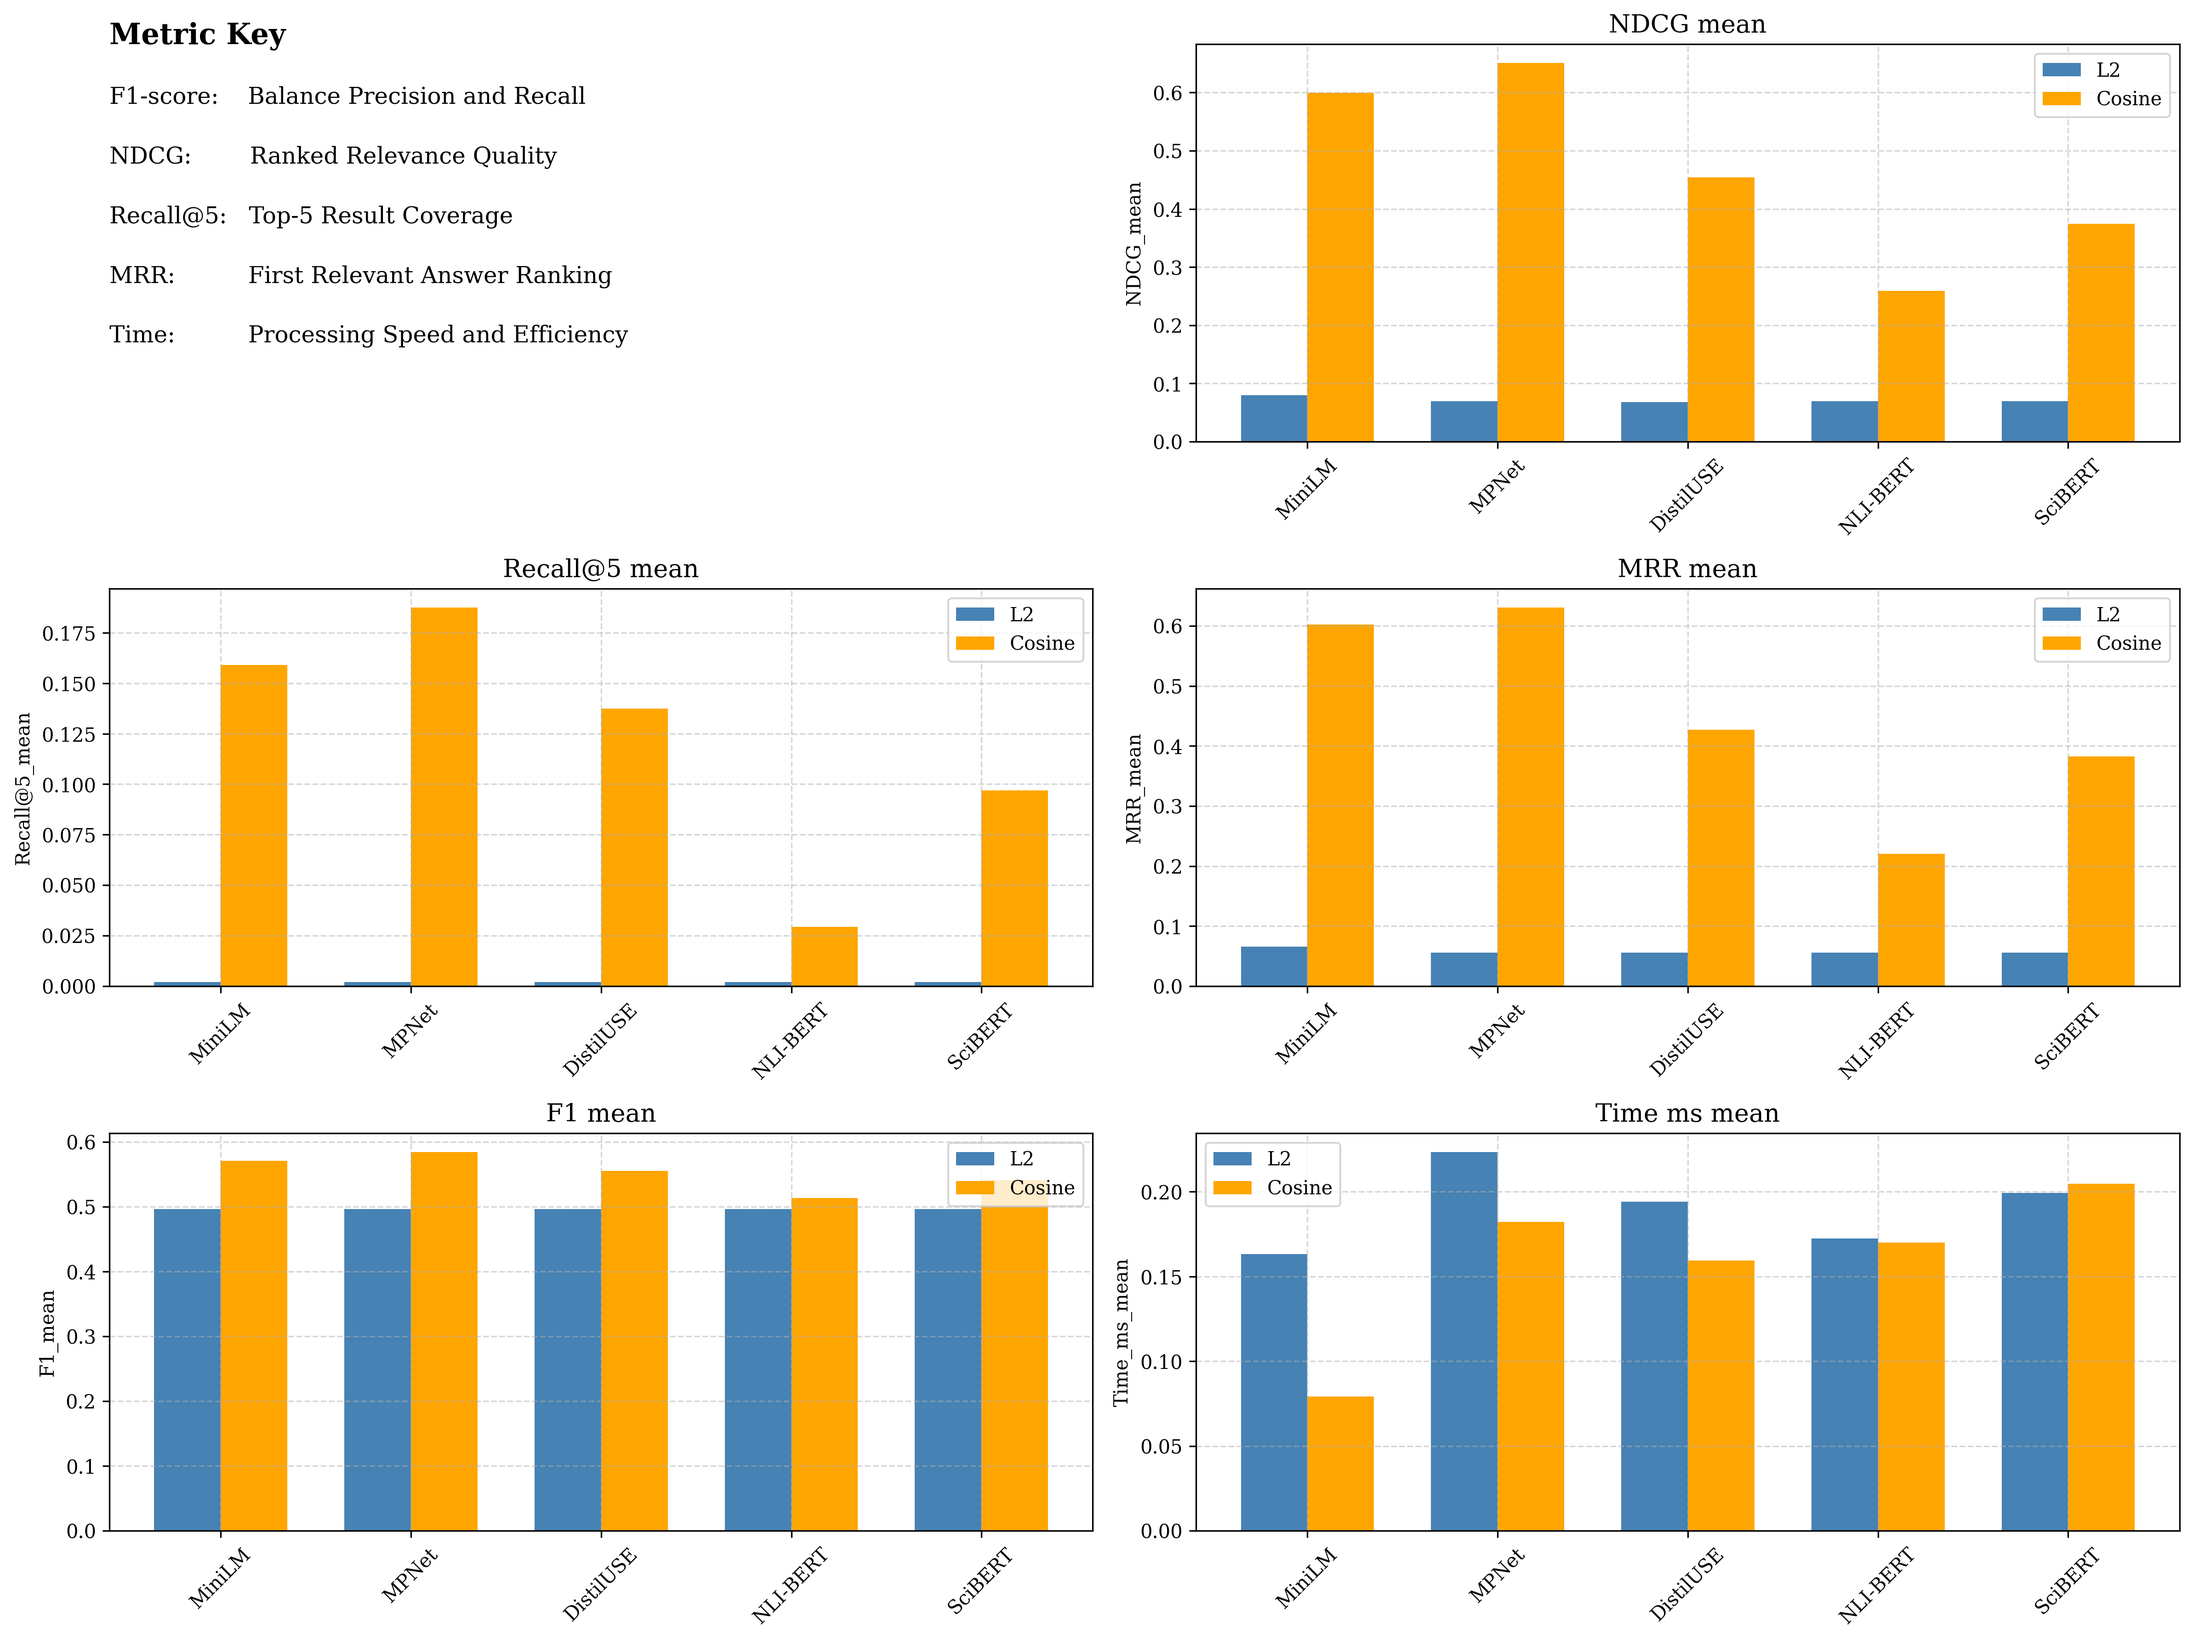
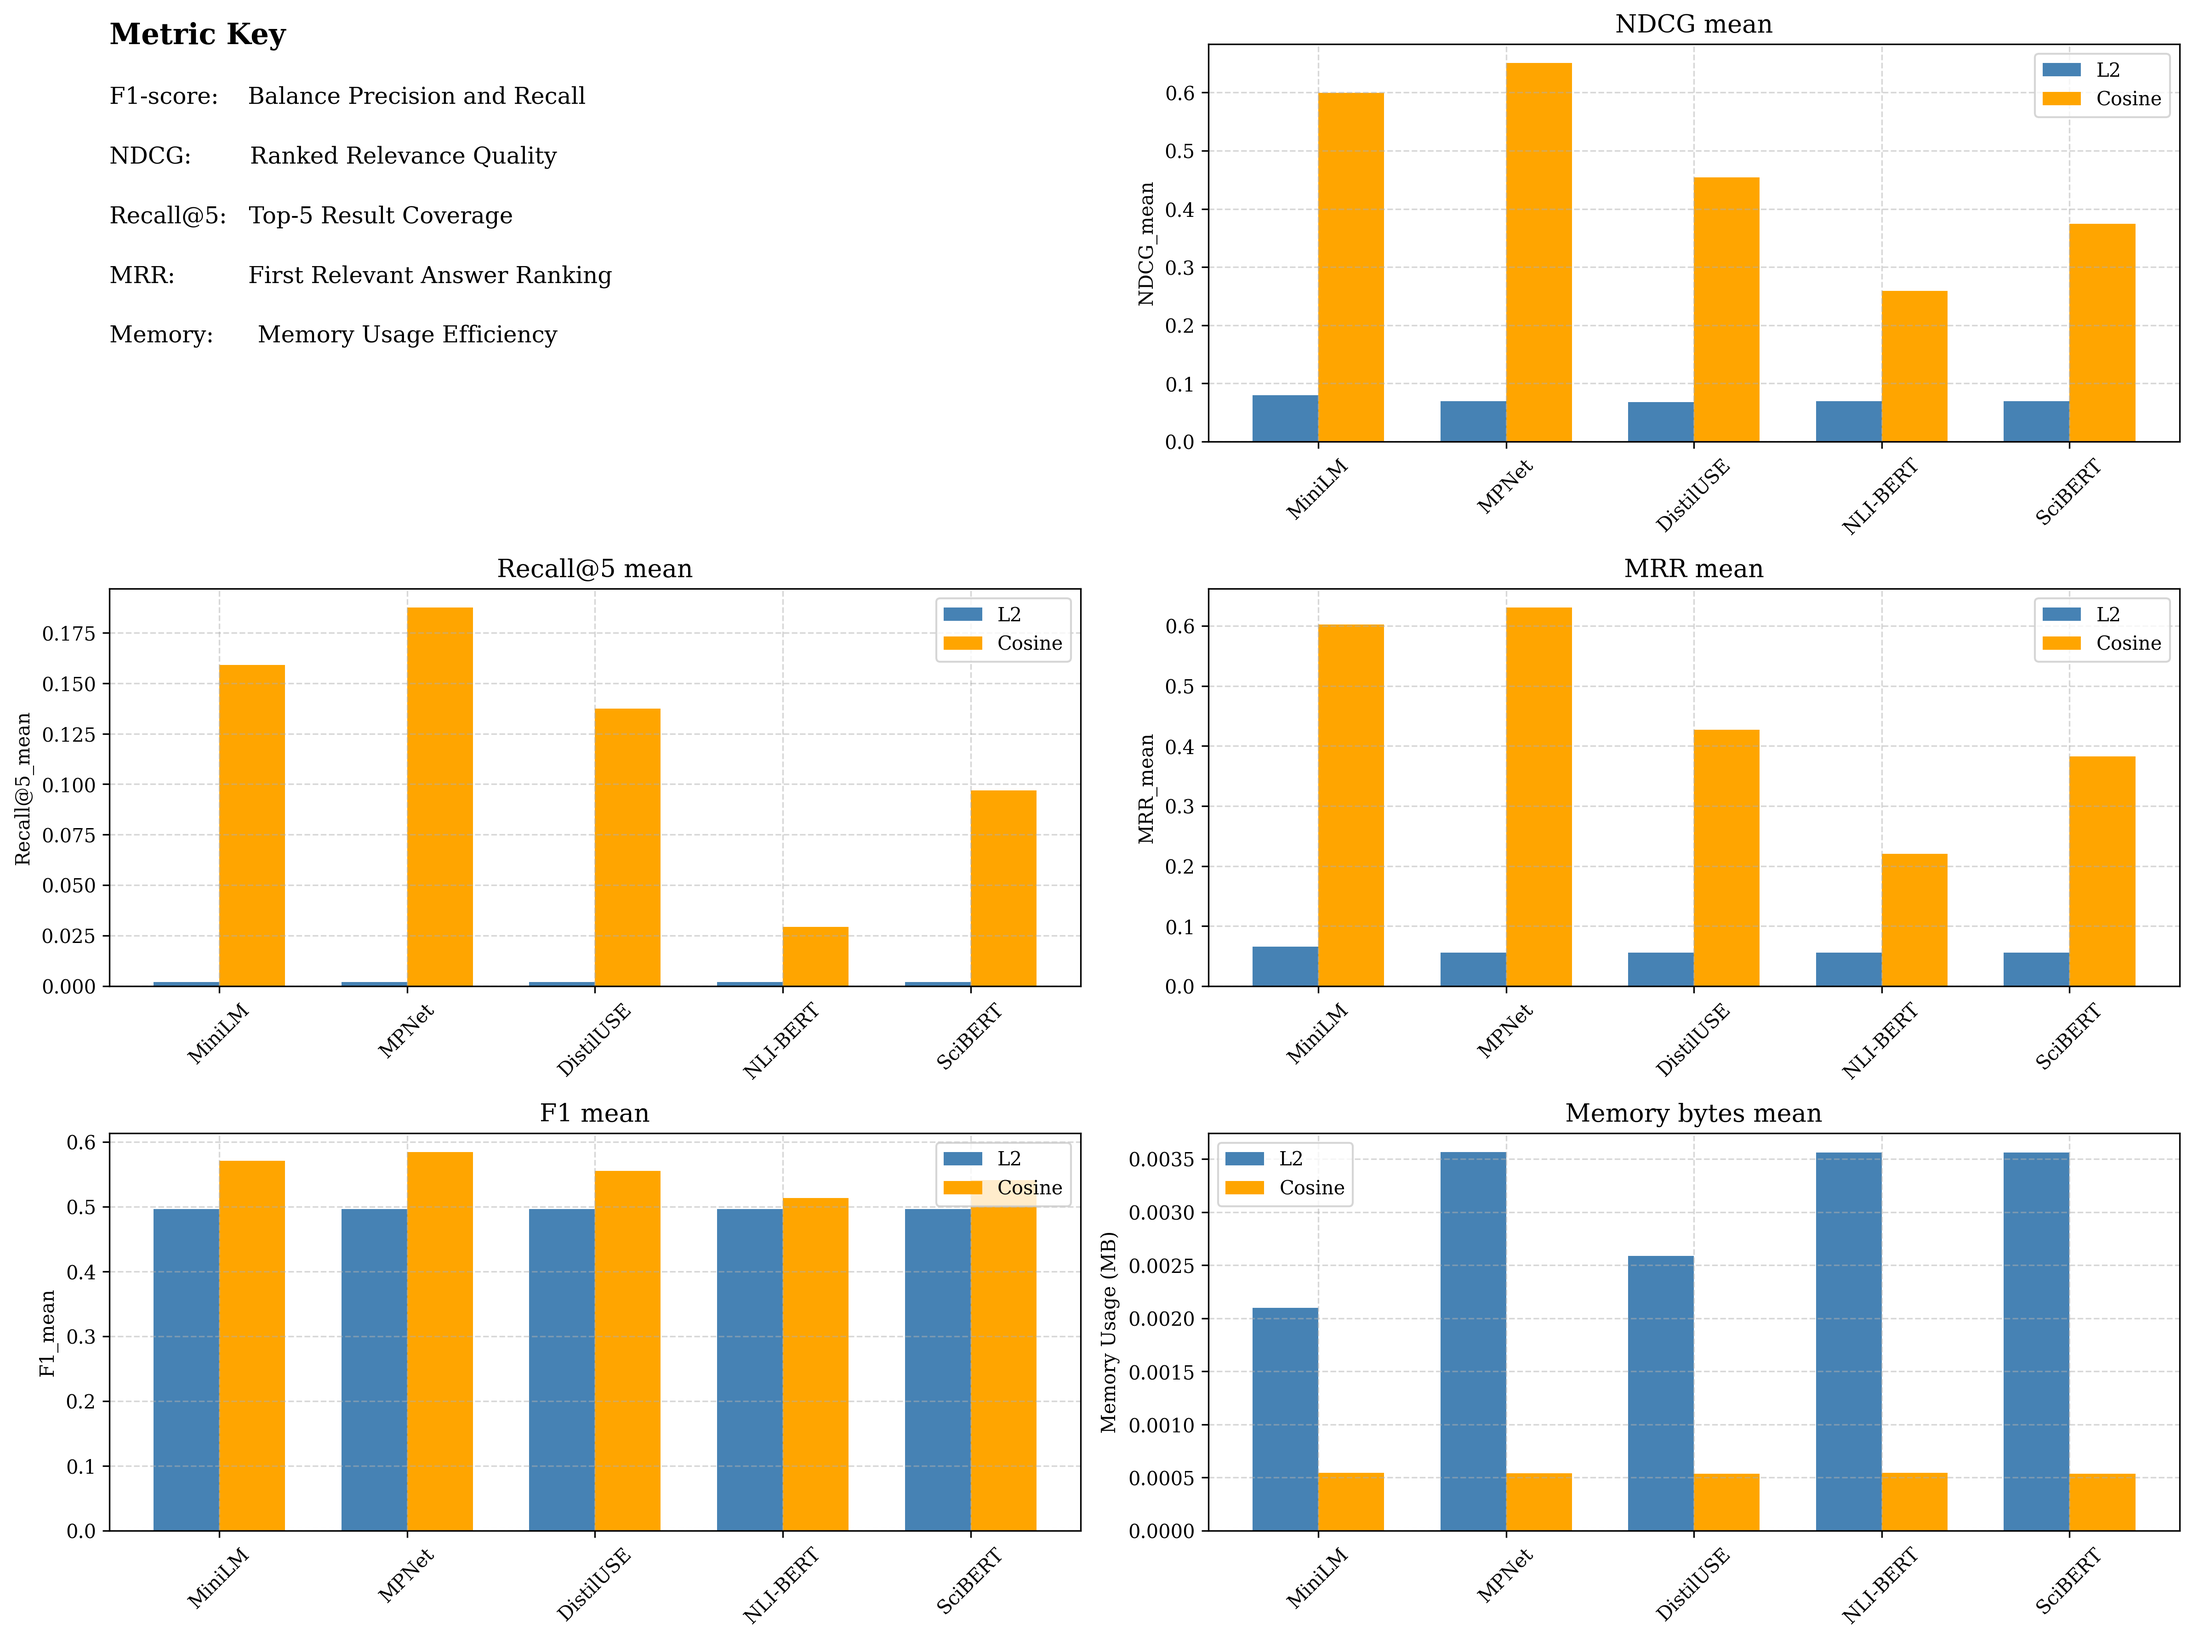
added memory usage

diff --git a/src/testing/add_langchain/paired_t.py b/src/testing/add_langchain/paired_t.py
@@ -20,6 +20,7 @@ f1_diff = merged_df["F1_langchain"] - merged_df["F1_baseline"]
 ndcg_diff = merged_df["NDCG_langchain"] - merged_df["NDCG_baseline"]
 mrr_diff = merged_df["MRR_langchain"] - merged_df["MRR_baseline"]
 r5_diff = merged_df["Recall@5_langchain"] - merged_df["Recall@5_baseline"]
+mem_diff = merged_df["Memory_bytes_langchain"] - merged_df["Memory_bytes_baseline"]
 
 # Shapiro-Wilk test for normality on differences - condition check for paired t-test
 print("Shapiro-Wilk Test for Normality of Paired Differences:")
@@ -27,11 +28,13 @@ f1_shapiro = shapiro(f1_diff).pvalue
 ndcg_shapiro = shapiro(ndcg_diff).pvalue
 mrr_shapiro = shapiro(mrr_diff).pvalue
 r5_shapiro = shapiro(r5_diff).pvalue
+mem_shapiro = shapiro(mem_diff).pvalue
 
 print(f"F1:       {f1_shapiro:.5f} {'(NORMAL)' if f1_shapiro > 0.05 else '(NON-NORMAL)'}")
 print(f"NDCG:     {ndcg_shapiro:.5f} {'(NORMAL)' if ndcg_shapiro > 0.05 else '(NON-NORMAL)'}")
 print(f"MRR:      {mrr_shapiro:.5f} {'(NORMAL)' if mrr_shapiro > 0.05 else '(NON-NORMAL)'}")
 print(f"Recall@5: {r5_shapiro:.5f} {'(NORMAL)' if r5_shapiro > 0.05 else '(NON-NORMAL)'}")
+print(f"Memory:   {mem_shapiro:.5f} {'(NORMAL)' if mem_shapiro > 0.05 else '(NON-NORMAL)'}")
 
 # Try log transformation for NDCG if not normal
 ndcg_transformed = None
@@ -108,6 +111,20 @@ significance = "SIGNIFICANT" if r5_p < 0.05 else "NOT SIGNIFICANT"
 print(f"Recall@5 ({test_type}): p = {r5_p:.5f} | {significance}")
 print(f"  Baseline: {merged_df['Recall@5_baseline'].mean():.4f} → LangChain: {merged_df['Recall@5_langchain'].mean():.4f}")
 
+# Memory Usage
+if mem_shapiro > 0.05:
+    mem_test = ttest_rel(merged_df["Memory_bytes_langchain"], merged_df["Memory_bytes_baseline"])
+    mem_p = mem_test.pvalue
+    test_type = "Paired t-test"
+else:
+    mem_test = wilcoxon(mem_diff)
+    mem_p = mem_test.pvalue
+    test_type = "Wilcoxon"
+
+significance = "SIGNIFICANT" if mem_p < 0.05 else "NOT SIGNIFICANT"
+print(f"Memory ({test_type}): p = {mem_p:.5f} | {significance}")
+print(f"  Baseline: {merged_df['Memory_bytes_baseline'].mean():.0f} → LangChain: {merged_df['Memory_bytes_langchain'].mean():.0f} bytes")
+
 print("\n" + "=" * 50)
 
 # CONCLUSIONS
@@ -119,6 +136,7 @@ if f1_p < 0.05: significant_improvements.append("F1")
 if ndcg_p < 0.05: significant_improvements.append("NDCG")
 if mrr_p < 0.05: significant_improvements.append("MRR")
 if r5_p < 0.05: significant_improvements.append("Recall@5")
+if mem_p < 0.05: significant_improvements.append("Memory Usage")
 
 if significant_improvements:
     print(f"LangChain shows statistically significant improvements in: {', '.join(significant_improvements)}")
@@ -127,35 +145,63 @@ else:
 
 print(f"📊 Effect sizes: F1 improvement = {((merged_df['F1_langchain'].mean() / merged_df['F1_baseline'].mean()) - 1) * 100:+.1f}%")
 
-# Showing Bar Plot
+# Showing Bar Plot with separate subplots for scores and memory
 sns.set_theme(style="whitegrid")
-metrics = ["F1", "NDCG", "MRR", "Recall@5"]
-baseline_means = [
+
+# Separate metrics into scores and memory
+score_metrics = ["F1", "NDCG", "MRR", "Recall@5"]
+baseline_scores = [
     merged_df["F1_baseline"].mean(),
     merged_df["NDCG_baseline"].mean(),
     merged_df["MRR_baseline"].mean(),
     merged_df["Recall@5_baseline"].mean()
 ]
-langchain_means = [
+langchain_scores = [
     merged_df["F1_langchain"].mean(),
     merged_df["NDCG_langchain"].mean(),
     merged_df["MRR_langchain"].mean(),
     merged_df["Recall@5_langchain"].mean()
 ]
 
-x = range(len(metrics))
+# Memory data separately
+baseline_memory = merged_df["Memory_bytes_baseline"].mean() / 1024 / 1024  # Convert to MB
+langchain_memory = merged_df["Memory_bytes_langchain"].mean() / 1024 / 1024  # Convert to MB
+
+# Create subplots
+fig, (ax1, ax2) = plt.subplots(1, 2, figsize=(12, 5))
+
+# Plot performance scores
+x1 = range(len(score_metrics))
 bar_width = 0.35
 
-fig, ax = plt.subplots(figsize=(8, 5))
-ax.bar(x, baseline_means, bar_width, label='Baseline MPNet', alpha=0.8)
-ax.bar([p + bar_width for p in x], langchain_means, bar_width, label='LangChain+MPNet', alpha=0.8)
+ax1.bar(x1, baseline_scores, bar_width, label='Baseline MPNet', alpha=0.8)
+ax1.bar([p + bar_width for p in x1], langchain_scores, bar_width, label='LangChain+MPNet', alpha=0.8)
 
-ax.set_xlabel('Metric')
-ax.set_ylabel('Mean Score')
-ax.set_title('Baseline MPNet vs. LangChain+MPNet Performance')
-ax.set_xticks([p + bar_width / 2 for p in x])
-ax.set_xticklabels(metrics)
-ax.legend()
+ax1.set_xlabel('Performance Metrics')
+ax1.set_ylabel('Mean Score')
+ax1.set_title('Performance Comparison')
+ax1.set_xticks([p + bar_width / 2 for p in x1])
+ax1.set_xticklabels(score_metrics)
+ax1.legend()
+ax1.grid(True, alpha=0.3)
+
+# Plot memory usage
+x2 = [0, 1]
+memory_values = [baseline_memory, langchain_memory]
+memory_labels = ['Baseline MPNet', 'LangChain+MPNet']
+colors = ['steelblue', 'orange']
+
+ax2.bar(x2, memory_values, bar_width*2, color=colors, alpha=0.8)
+ax2.set_xlabel('Method')
+ax2.set_ylabel('Memory Usage (MB)')
+ax2.set_title('Memory Usage Comparison')
+ax2.set_xticks(x2)
+ax2.set_xticklabels(memory_labels, rotation=15)
+ax2.grid(True, alpha=0.3)
+
+# Add value labels on memory bars
+for i, v in enumerate(memory_values):
+    ax2.text(i, v + 0.05, f'{v:.2f}', ha='center', va='bottom')
 
 plt.tight_layout()
 plt.savefig('comparison_plot.png')

diff --git a/src/testing/comparison/main.py b/src/testing/comparison/main.py
@@ -83,8 +83,7 @@ for model_name, model_path in models_to_test.items():
         index = index_func(embeddings.shape[1])
         index.add(embeddings)
 
-        query_scores = {"NDCG": [], "F1": [], "MRR": [], "Recall@5": [], "Time_ms": []}
-        # query_scores["Memory_bytes"] = []
+        query_scores = {"NDCG": [], "F1": [], "MRR": [], "Recall@5": [], "Memory_bytes": []}
 
         for query_id in tqdm(query_ids):
             query = queries[query_id]
@@ -102,9 +101,7 @@ for model_name, model_path in models_to_test.items():
                 query_embedding = query_embedding * query_scaling
 
             tracemalloc.start() # Start memory tracking
-            t0 = time.time()
             _, indices = index.search(query_embedding, 5)
-            t1 = time.time()
             mem = tracemalloc.get_traced_memory()[1]
             tracemalloc.stop()
 
@@ -114,8 +111,7 @@ for model_name, model_path in models_to_test.items():
             query_scores["F1"].append(f1)
             query_scores["MRR"].append(mrr)
             query_scores["Recall@5"].append(recall)
-            query_scores["Time_ms"].append((t1 - t0) * 1000)
-            # query_scores["Memory_bytes"].append(mem)
+            query_scores["Memory_bytes"].append(mem)
 
         result = {
             "model": model_name,
@@ -124,14 +120,12 @@ for model_name, model_path in models_to_test.items():
             "F1_mean": np.mean(query_scores["F1"]),
             "MRR_mean": np.mean(query_scores["MRR"]),
             "Recall@5_mean": np.mean(query_scores["Recall@5"]),
-            "Time_ms_mean": np.mean(query_scores["Time_ms"]),
-            # "Memory_bytes_mean": np.mean(query_scores["Memory_bytes"]),
+            "Memory_bytes_mean": np.mean(query_scores["Memory_bytes"]),
             "NDCG_std": np.std(query_scores["NDCG"]),
             "F1_std": np.std(query_scores["F1"]),
             "MRR_std": np.std(query_scores["MRR"]),
             "Recall@5_std": np.std(query_scores["Recall@5"]),
-            "Time_ms_std": np.std(query_scores["Time_ms"]),
-            # "Memory_bytes_std": np.std(query_scores["Memory_bytes"])
+            "Memory_bytes_std": np.std(query_scores["Memory_bytes"])
         }
         results.append(result)
 

diff --git a/src/testing/comparison/bar_graph.py b/src/testing/comparison/bar_graph.py
@@ -12,7 +12,7 @@ df = pd.read_csv("embeddings_all_metrics.csv")
 df["method"] = df["model"] + " (" + df["similarity"] + ")"
 
 # Metrics to plot
-metrics = ['NDCG_mean', 'Recall@5_mean', 'MRR_mean','F1_mean', 'Time_ms_mean']
+metrics = ['NDCG_mean', 'Recall@5_mean', 'MRR_mean','F1_mean', 'Memory_bytes_mean']
 
 # Plot grouped bars for L2 vs Cosine per model
 fig, axes = plt.subplots(nrows=3, ncols=2, figsize=(16, 12))
@@ -28,13 +28,23 @@ for i, metric in enumerate(metrics):
     l2_vals = df[df["similarity"] == "L2"][metric].values
     cos_vals = df[df["similarity"] == "Cosine"][metric].values
 
+    # Convert memory bytes to MB for better readability
+    if metric == "Memory_bytes_mean":
+        l2_vals = l2_vals / (1024 * 1024)
+        cos_vals = cos_vals / (1024 * 1024)
+
     ax.bar(x - width/2, l2_vals, width, label="L2", color="steelblue")
     ax.bar(x + width/2, cos_vals, width, label="Cosine", color="orange")
 
     ax.set_title(metric.replace("_", " "), fontsize=13)
     ax.set_xticks(x)
     ax.set_xticklabels(models, rotation=45)
-    ax.set_ylabel(metric)
+
+    # Set appropriate y-axis label
+    if metric == "Memory_bytes_mean":
+        ax.set_ylabel("Memory Usage (MB)")
+    else:
+        ax.set_ylabel(metric)
     ax.grid(True, linestyle="--", alpha=0.5)
     ax.legend()
 
@@ -45,7 +55,7 @@ key_ax.text(0, 0.85, "F1-score:    Balance Precision and Recall", fontsize=12)
 key_ax.text(0, 0.70, "NDCG:        Ranked Relevance Quality", fontsize=12)
 key_ax.text(0, 0.55, "Recall@5:   Top-5 Result Coverage", fontsize=12)
 key_ax.text(0, 0.40, "MRR:          First Relevant Answer Ranking", fontsize=12)
-key_ax.text(0, 0.25, "Time:          Processing Speed and Efficiency", fontsize=12)
+key_ax.text(0, 0.25, "Memory:      Memory Usage Efficiency", fontsize=12)
 
 plt.tight_layout()
 plt.savefig("bar_graph.png", dpi=300, bbox_inches='tight')
